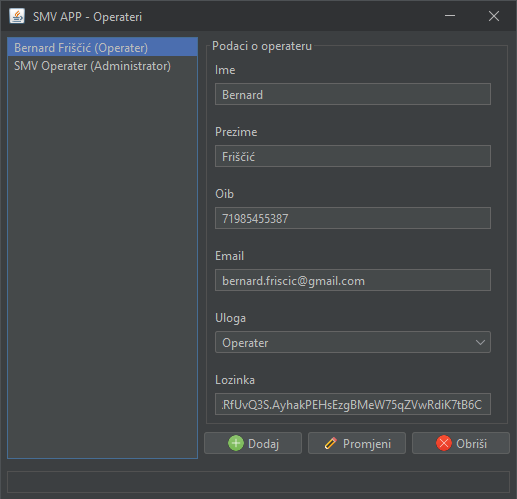
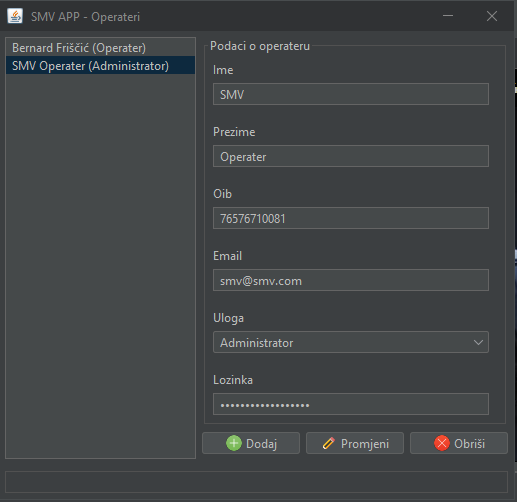
Zamjena Text fielda za Password field i reupload određenih slika.

diff --git a/src/main/java/hr/friscic/zavrsnirad/view/Operateri.java b/src/main/java/hr/friscic/zavrsnirad/view/Operateri.java
@@ -57,8 +57,8 @@ public class Operateri extends javax.swing.JFrame {
         txtEmail = new javax.swing.JTextField();
         jLabel5 = new javax.swing.JLabel();
         jLabel6 = new javax.swing.JLabel();
-        txtLozinka = new javax.swing.JTextField();
         cmbUloga = new javax.swing.JComboBox<>();
+        pswLozinka = new javax.swing.JPasswordField();
         btnDodaj = new javax.swing.JButton();
         btnPromjeni = new javax.swing.JButton();
         btnObrisi = new javax.swing.JButton();
@@ -127,8 +127,8 @@ public class Operateri extends javax.swing.JFrame {
                         .addGap(0, 0, Short.MAX_VALUE))
                     .addGroup(javax.swing.GroupLayout.Alignment.TRAILING, jPanel1Layout.createSequentialGroup()
                         .addGroup(jPanel1Layout.createParallelGroup(javax.swing.GroupLayout.Alignment.TRAILING)
+                            .addComponent(pswLozinka, javax.swing.GroupLayout.Alignment.LEADING)
                             .addComponent(cmbUloga, javax.swing.GroupLayout.Alignment.LEADING, 0, javax.swing.GroupLayout.DEFAULT_SIZE, Short.MAX_VALUE)
-                            .addComponent(txtLozinka, javax.swing.GroupLayout.Alignment.LEADING)
                             .addGroup(javax.swing.GroupLayout.Alignment.LEADING, jPanel1Layout.createSequentialGroup()
                                 .addComponent(jLabel1, javax.swing.GroupLayout.DEFAULT_SIZE, javax.swing.GroupLayout.DEFAULT_SIZE, Short.MAX_VALUE)
                                 .addGap(110, 110, 110))
@@ -173,7 +173,7 @@ public class Operateri extends javax.swing.JFrame {
                 .addGap(18, 18, 18)
                 .addComponent(jLabel6)
                 .addPreferredGap(javax.swing.LayoutStyle.ComponentPlacement.RELATED)
-                .addComponent(txtLozinka, javax.swing.GroupLayout.PREFERRED_SIZE, javax.swing.GroupLayout.DEFAULT_SIZE, javax.swing.GroupLayout.PREFERRED_SIZE)
+                .addComponent(pswLozinka, javax.swing.GroupLayout.PREFERRED_SIZE, javax.swing.GroupLayout.DEFAULT_SIZE, javax.swing.GroupLayout.PREFERRED_SIZE)
                 .addContainerGap(javax.swing.GroupLayout.DEFAULT_SIZE, Short.MAX_VALUE))
         );
 
@@ -265,7 +265,7 @@ public class Operateri extends javax.swing.JFrame {
         txtOib.setText(entitet.getOib());
         txtEmail.setText(entitet.getEmail());
         cmbUloga.setSelectedItem(entitet.getUloga());
-        txtLozinka.setText(entitet.getLozinka());
+        pswLozinka.setText(entitet.getLozinka());
         
 
     }//GEN-LAST:event_lstPodaciValueChanged
@@ -356,9 +356,9 @@ public class Operateri extends javax.swing.JFrame {
     private javax.swing.JScrollPane jScrollPane1;
     private javax.swing.JLabel lblPoruka;
     private javax.swing.JList<Operater> lstPodaci;
+    private javax.swing.JPasswordField pswLozinka;
     private javax.swing.JTextField txtEmail;
     private javax.swing.JTextField txtIme;
-    private javax.swing.JTextField txtLozinka;
     private javax.swing.JTextField txtOib;
     private javax.swing.JTextField txtPrezime;
     // End of variables declaration//GEN-END:variables
@@ -376,7 +376,7 @@ public class Operateri extends javax.swing.JFrame {
         txtPrezime.setText("");
         txtOib.setText("");
         txtEmail.setText("");
-        txtLozinka.setText("");
+        pswLozinka.setText("");
         
     }
     
@@ -386,7 +386,7 @@ public class Operateri extends javax.swing.JFrame {
         entitet.setOib(txtOib.getText());
         entitet.setEmail(txtEmail.getText());
         entitet.setUloga((Uloga) cmbUloga.getSelectedItem());
-        entitet.setLozinka(BCrypt.hashpw(txtLozinka.getText(), BCrypt.gensalt()));
+        entitet.setLozinka(BCrypt.hashpw(pswLozinka.getText(), BCrypt.gensalt()));
         
         obrada.setEntitet(entitet);
     }

diff --git a/src/main/java/hr/friscic/zavrsnirad/view/Autorizacija.java b/src/main/java/hr/friscic/zavrsnirad/view/Autorizacija.java
@@ -25,7 +25,8 @@ public class Autorizacija extends javax.swing.JFrame {
         initComponents();
 
         txtEmail.requestFocus();
-        txtEmail.setText("bernard.friscic@gmail.com");
+        txtEmail.setText("smv@smv.com");
+        pswLozinka.setText("s");
 
     }
 
